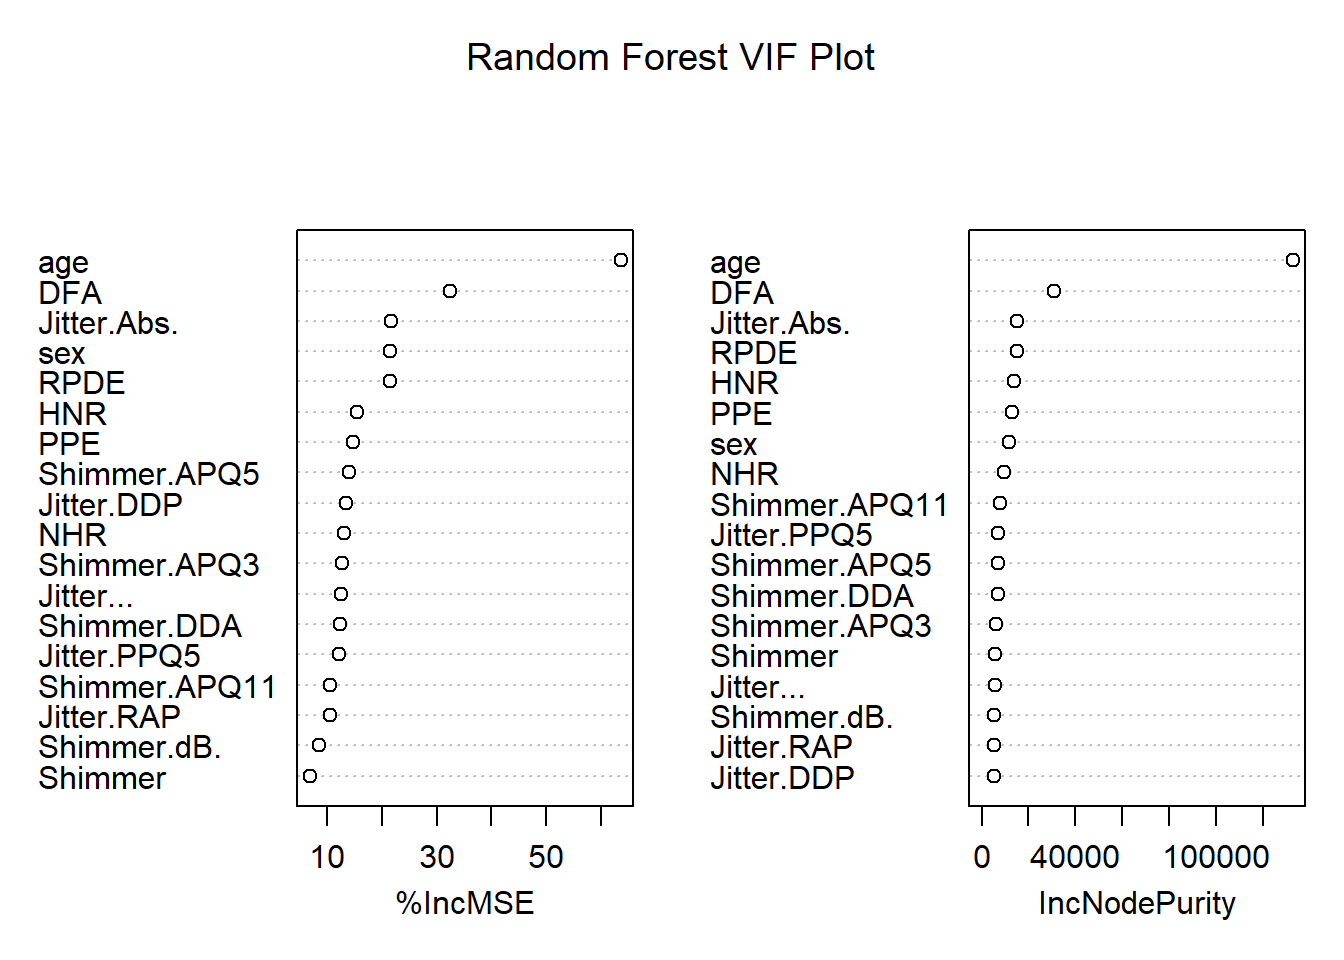
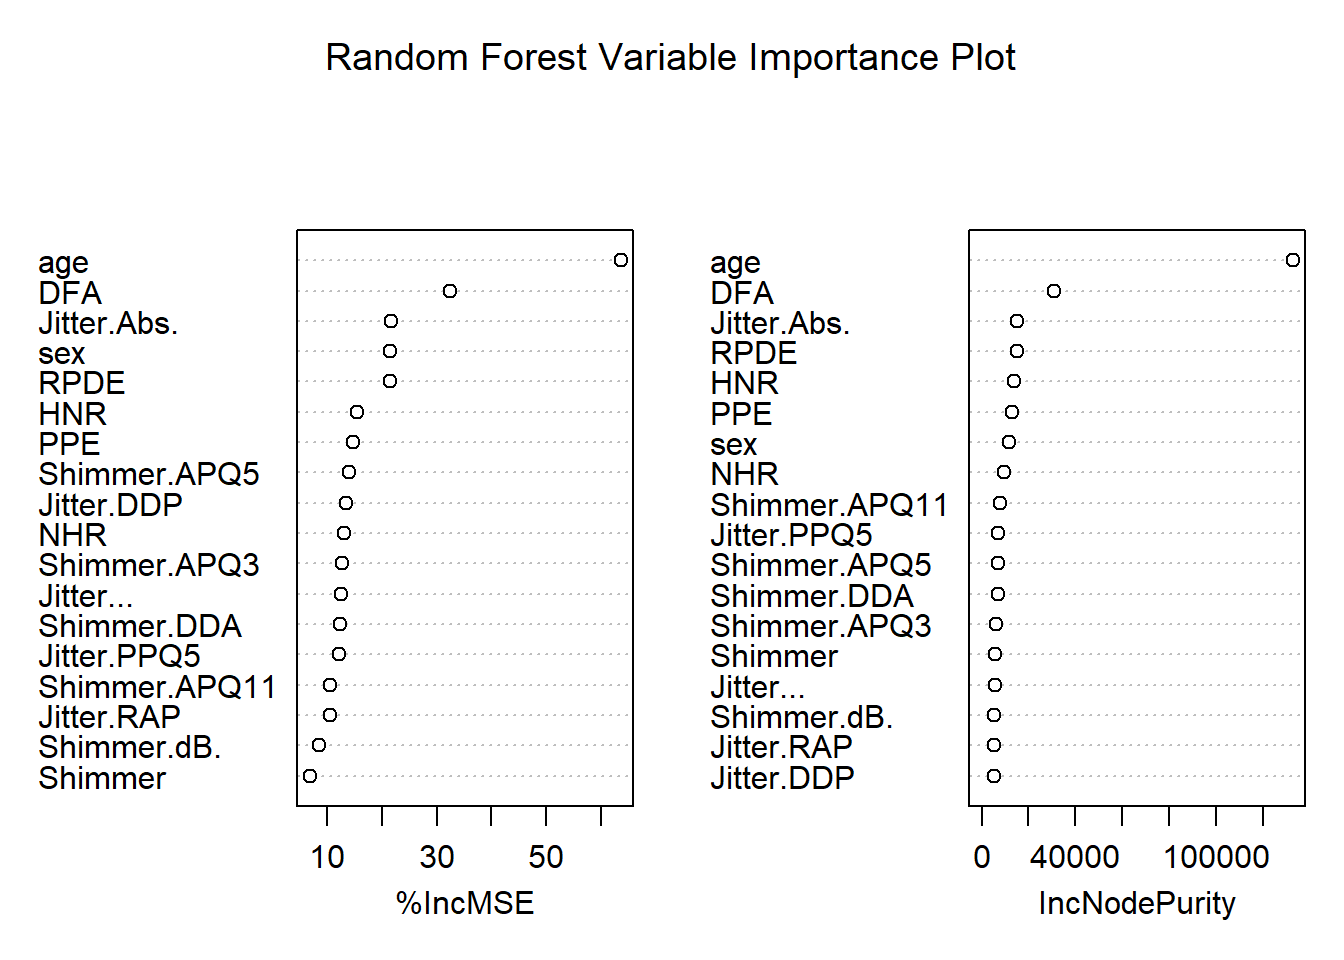
Complete Site Built, Time to Edit

Changed region(s): [[0.25, 0.0312, 0.75, 0.0938]]

diff --git a/sourceCode.html b/sourceCode.html
@@ -11,7 +11,7 @@
 
 
 
-<title></title>
+<title>Source Code</title>
 
 <script src="site_libs/jquery-1.11.3/jquery.min.js"></script>
 <meta name="viewport" content="width=device-width, initial-scale=1" />
@@ -22,6 +22,7 @@
 <script src="site_libs/navigation-1.1/tabsets.js"></script>
 <link href="site_libs/highlightjs-9.12.0/default.css" rel="stylesheet" />
 <script src="site_libs/highlightjs-9.12.0/highlight.js"></script>
+<link href="site_libs/font-awesome-4.5.0/css/font-awesome.min.css" rel="stylesheet" />
 
 <style type="text/css">code{white-space: pre;}</style>
 <style type="text/css">
@@ -212,13 +213,71 @@ $(document).ready(function () {
 
 
 
+<h1 class="title toc-ignore">Source Code</h1>
 
 </div>
 
 
-<div id="jgmoore44.github.io" class="section level1">
-<h1>JGMoore44.github.io</h1>
-<p>Website containing Exemplary Visualizations and Predictions</p>
+<div id="optimal-elastic-net-source-code" class="section level2">
+<h2>Optimal Elastic Net Source Code</h2>
+<pre class="r"><code>###
+# Function: optimumElastic()
+# Description: This function determines the optimal Elastic Net model for prediction,
+#               given a sequence of alpha values from 0.5 to .95 to test
+# Input: dat --&gt; The dataSet which you would like to conduct analysis on
+#         resp --&gt; The indicated response variable as a string
+# Ouput: listToReturn --&gt; A list containing the index for the optimal alpha value
+#                           A vector of the alpha values tested,
+#                           A vector of Error Rate at each alpha level
+###
+optimumElastic = function(dat,resp){
+  library(glmnet)
+  #Format Response
+  response = c(resp)
+  dat$responseFeature = dat[,resp]
+  dat = dat[,!(names(dat)%in% response)]
+
+  #initialize alpha and Error vectors
+  alphaVect = seq(from=0.05, to=0.95, by = 0.01)
+  MSEP = numeric(length(alphaVect))
+  
+  #Set up folds for CV
+  for(j in 1:nrow(dat)){
+    foldNum = (j-1)%%5 + 1
+    dat$fold[j] = foldNum
+  }
+  #Begin Alpha Loop
+  for (i in 1:length(alphaVect)) {
+    #Begin Cross Validation Loop
+    for (j in 1:5) {
+      #Training and Test Sets
+      trainingSet = dat[-which(dat$fold==j),]
+      trainingSet = subset(trainingSet, select = -c(fold))
+      testSet = dat[which(dat$fold==j),]
+      testSet = subset(testSet,select = -c(fold))
+      trainingMat = model.matrix(responseFeature ~ ., data = trainingSet)
+      testMat = model.matrix(responseFeature ~ ., data = testSet)
+      
+      #Beginin Regression
+      cvElastic = cv.glmnet(trainingMat,trainingSet$responseFeature,alpha = alphaVect[i])
+      minLambda = cvElastic$lambda.min
+      tempMod = glmnet(trainingMat,trainingSet$responseFeature,alpha = alphaVect[i],lambda = minLambda)
+      #predict values
+      pred.elastic = predict(tempMod,testMat)
+      #Calculate MSE for this fold
+      MSEPTemp = mean((pred.elastic-testSet$responseFeature)^2)
+      MSEP[i] = MSEP[i] + MSEPTemp
+    }
+    #Record Final MSE for Alpha level
+    MSEP[i] = MSEP[i]/5
+  }
+  #record index of best Alpha
+  bestAlpha = which.min(MSEP)
+  listToReturn = list(bestAlphaIndex = bestAlpha,
+                      alphaVect=alphaVect,
+                      errorRate = MSEP)
+  return(listToReturn)
+}</code></pre>
 </div>
 
 

diff --git a/prediction.html b/prediction.html
@@ -185,7 +185,10 @@ $(document).ready(function () {
   <a href="exploratoryAnalysis.html">Exploratory Analysis</a>
 </li>
 <li>
-  <a href="prediction.html">Prediction Models</a>
+  <a href="prediction.html">Prediction Model</a>
+</li>
+<li>
+  <a href="sourceCode.html">Source Code</a>
 </li>
       </ul>
       <ul class="nav navbar-nav navbar-right">
@@ -238,7 +241,7 @@ data = dataWithSubject[,!(names(dataWithSubject)%in% c(&quot;subject.&quot;,&quo
 </div>
 <div id="run-model" class="section level3">
 <h3>Run Model</h3>
-<p>Now we will run our data through our ML Algorithm <code>optimumElastic()</code> which takes our data and the desired response variable in as arguments, uses cross validation to determine the optimal tunes of <span class="math inline">\(\lambda\)</span> as it correspond to its respecitve <span class="math inline">\(\alpha\)</span> value (over a sequence from <span class="math inline">\(\alpha = (0.5,0.95)\)</span>), and returns a list of error rates as they relate to each <span class="math inline">\(\alpha\)</span> value as well as the <span class="math inline">\(\alpha\)</span> value that yields the lowest error rate. The source code for function <code>optimumElastic()</code> can be found in Appendix 1 in the <strong>Source Code</strong> tab at the top of this web page.</p>
+<p>Now we will run our data through our ML Algorithm <code>optimumElastic()</code> which takes our data and the desired response variable in as arguments, uses cross validation to determine the optimal tunes of <span class="math inline">\(\lambda\)</span> as it correspond to its respecitve <span class="math inline">\(\alpha\)</span> value (over a sequence from <span class="math inline">\(\alpha = (0.5,0.95)\)</span>), and returns a list of error rates as they relate to each <span class="math inline">\(\alpha\)</span> value as well as the <span class="math inline">\(\alpha\)</span> value that yields the lowest error rate. The source code for function <code>optimumElastic()</code> can be found in the <strong>Source Code</strong> tab at the top of this web page.</p>
 <pre class="r"><code>library(glmnet)
 #Determine best Model
 set.seed(1234)
@@ -295,7 +298,7 @@ mean((rfPred - testSet$motor_UPDRS)^2)</code></pre>
 <pre><code>## [1] 11.81427</code></pre>
 <p>Notice thate our random forest model gives us a smaller MSE prediction rate. Now we will look at how each feature influences our error rate.</p>
 <pre class="r"><code>#Visualize Variable Importance
-varImpPlot(rf, main = &quot;Random Forest VIF Plot&quot;)</code></pre>
+varImpPlot(rf, main = &quot;Random Forest Variable Importance Plot&quot;)</code></pre>
 <p><img src="prediction_files/figure-html/unnamed-chunk-13-1.png" width="672" /></p>
 </div>
 <div id="conclusion" class="section level3">

diff --git a/exploratoryAnalysis.html b/exploratoryAnalysis.html
@@ -185,7 +185,10 @@ $(document).ready(function () {
   <a href="exploratoryAnalysis.html">Exploratory Analysis</a>
 </li>
 <li>
-  <a href="prediction.html">Prediction Models</a>
+  <a href="prediction.html">Prediction Model</a>
+</li>
+<li>
+  <a href="sourceCode.html">Source Code</a>
 </li>
       </ul>
       <ul class="nav navbar-nav navbar-right">
@@ -272,7 +275,6 @@ var(dataExploratory$total_UPDRS[which(dataExploratory$sex==1)])</code></pre>
 <div id="conclusion" class="section level3">
 <h3>Conclusion</h3>
 <p>The above correlation matrices indicate that there may be associations between the Jitter metrics (i.e. Abs., PPQ5,…) as well as Shimmer metrics. This can lead to multicollinearity in our final model. Therefore dimension reduction methods such as principal component analysis or shrinkage models are likely appropriate for further analysis.</p>
-<p>CORRELATIONS BETWEEN JITTER AND SHIMMER PREDS AND ASSOCIATION B/W NHR HNR RPDE DFA PPE, SHIMMER,JITTER AND MOTOR SCORE.</p>
 </div>
 </div>
 

diff --git a/rfPrediction.html b/rfPrediction.html
@@ -185,7 +185,10 @@ $(document).ready(function () {
   <a href="exploratoryAnalysis.html">Exploratory Analysis</a>
 </li>
 <li>
-  <a href="prediction.html">Prediction Models</a>
+  <a href="prediction.html">Prediction Model</a>
+</li>
+<li>
+  <a href="sourceCode.html">Source Code</a>
 </li>
       </ul>
       <ul class="nav navbar-nav navbar-right">

diff --git a/index.html b/index.html
@@ -187,6 +187,9 @@ $(document).ready(function () {
 <li>
   <a href="prediction.html">Prediction Model</a>
 </li>
+<li>
+  <a href="sourceCode.html">Source Code</a>
+</li>
       </ul>
       <ul class="nav navbar-nav navbar-right">
         <li>
